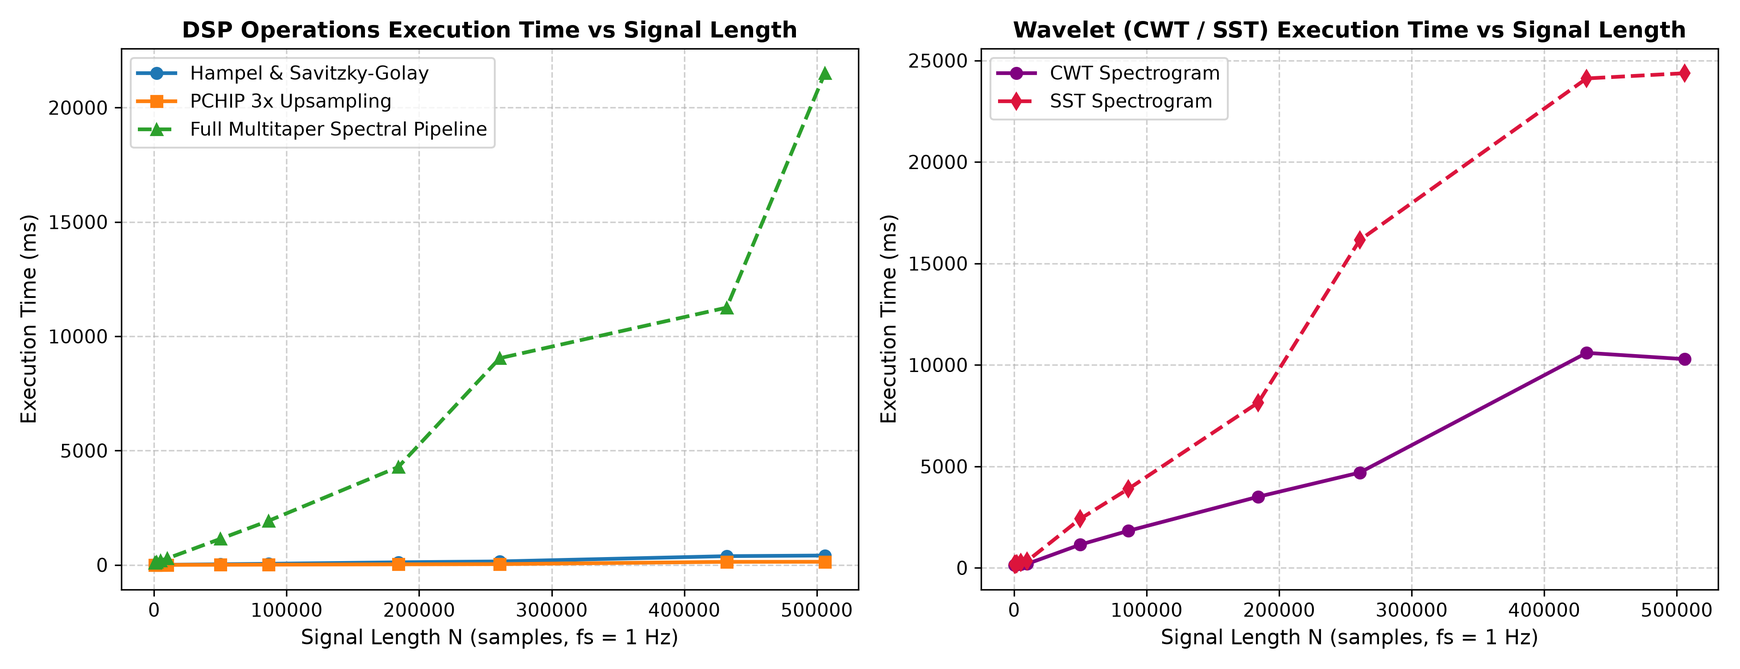
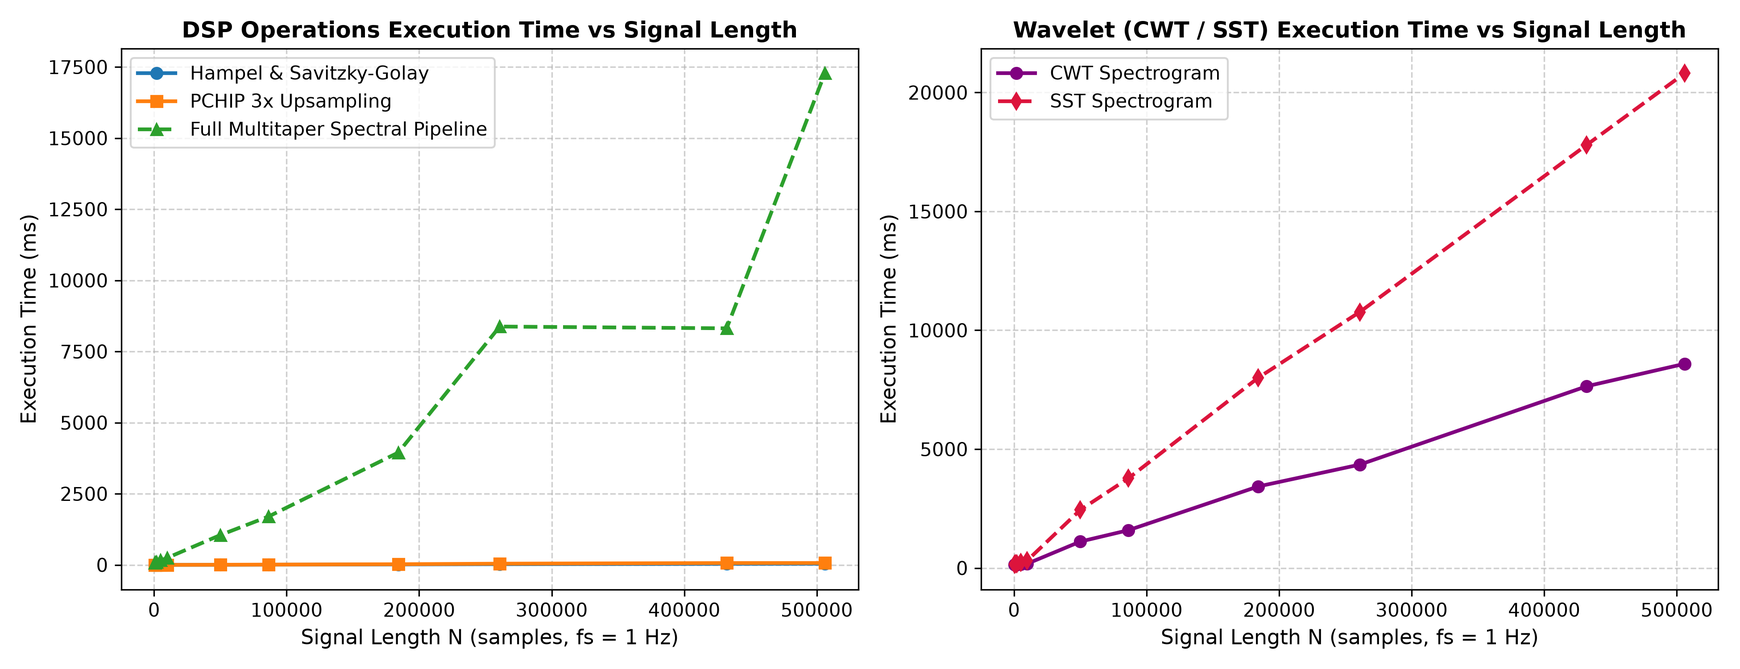
docs(sync): update readme, benchmarks, and theory documentation with measured performance and theoretical variance

diff --git a/docs/theory.md b/docs/theory.md
@@ -112,8 +112,9 @@ $$\text{MAD}_i = 1.4826 \cdot \text{median}(|x_{i-K} - m_i|, \ldots, |x_{i+K} - 
 
 #### Implementation & Software Defaults:
 - **Function:** `core.signal_processing.clean_and_smooth_signal()`
+- **Algorithm & Implementation:** Evaluated using rolling median operations via `scipy.ndimage.median_filter(..., mode="reflect")` for both the rolling median $m_i$ and the rolling MAD calculation.
 - **Defaults:** Full window width `window_size = 15` samples ($K = 7$ samples on either side), threshold `n_sigmas = 3.0`.
-- **Boundary Handling:** Rolling statistics use `center=True, min_periods=1`, so boundary windows are truncated rather than reflect-padded. Flagged outliers are replaced by local medians, followed by backward/forward filling (`bfill().ffill()`).
+- **Boundary Handling:** Boundary values use reflection padding (`mode="reflect"`). Flagged outliers are replaced via `np.where(outliers, rolling_median, arr)`.
 
 > 📖 **Interactive Notebook Tutorial:** See [`examples/02_preprocessing.ipynb`](../examples/02_preprocessing.ipynb) for a step-by-step notebook demonstration of Hampel outlier filtering and Savitzky-Golay smoothing.
 
@@ -156,25 +157,19 @@ where $h_k = t_{k+1} - t_k$, and slopes $\Delta_k$ are harmonically weighted to 
 
 ---
 
-### 3.4. Zero-Phase Butterworth Bandpass Filtering
+### 3.4. Zero-Phase Butterworth Bandpass Filtering & Boundary Preservation
 To isolate ionospheric wave modes (such as 10–100 s quasi-periodic oscillations) while eliminating baseline receiver drift and Nyquist aliasing noise, a 4th-order digital Butterworth bandpass filter is evaluated in Second-Order Sections (SOS) form:
 
 $$H(z) = \prod_{k=1}^{L} \frac{b_{0k} + b_{1k}z^{-1} + b_{2k}z^{-2}}{1 + a_{1k}z^{-1} + a_{2k}z^{-2}}$$
 
 #### Processing Steps:
 1. **Linear Detrending:** Baseline drift is removed via `scipy.signal.detrend(arr, type='linear')`, removing DC bias and linear slope.
-2. **Tukey Window Tapering:** Edge discontinuities are smoothly tapered to zero using a Tukey (cosine-tapered) window:
-   $$w(n) = \begin{cases} 
-   \frac{1}{2}\left[1 + \cos\left(\pi\left(\frac{2n}{\alpha N} - 1\right)\right)\right], & 0 \le n < \frac{\alpha N}{2} \\
-   1, & \frac{\alpha N}{2} \le n \le N\left(1 - \frac{\alpha}{2}\right) \\
-   \frac{1}{2}\left[1 + \cos\left(\pi\left(\frac{2(N-1-n)}{\alpha N} - 1\right)\right)\right], & N\left(1 - \frac{\alpha}{2}\right) < n \le N-1
-   \end{cases}$$
-   with default $\alpha = 0.1$ ($10\%$ taper across endpoints).
+2. **Boundary Preservation vs. Tapering:** For time-domain IIR bandpass filtering, `tukey_alpha` defaults to `0.0`. Forward-backward filtering (`scipy.signal.sosfiltfilt`) applies zero-phase reflection padding at signal ends, preserving physical scintillation oscillations during source transit entrance and exit epochs without artificial edge attenuation. For continuous wavelet and Fourier transforms, a Tukey cosine taper ($\alpha = 0.05\text{--}0.1$) is applied explicitly to suppress circular wrap-around discontinuity.
 3. **Zero-Phase Filtering:** Evaluated via forward-backward filtering (`scipy.signal.sosfiltfilt`), resulting in zero phase distortion ($\text{Im}\{H_{\text{eff}}(\omega)\} = 0$) and an effective 8th-order squared magnitude response $|H(\omega)|^2$.
 
 #### Implementation & Software Defaults:
 - **Function:** `core.signal_processing.bandpass_filter()`
-- **Defaults:** Passband $0.01 - 0.1\text{ Hz}$ (or $1/150 - 0.2\text{ Hz}$ for wavelets), filter order $4$, Tukey $\alpha = 0.1$.
+- **Defaults:** Passband $0.01 - 0.1\text{ Hz}$ (or $1/150 - 0.2\text{ Hz}$ for wavelets), filter order $4$, default `tukey_alpha = 0.0` (untapered for IIR filtering; explicit tapering passed for CWT).
 
 ---
 
@@ -316,7 +311,26 @@ The effective critical F-statistic threshold $F_{\text{FDR}}$ is then computed f
 
 ---
 
-### 4.6. Weighted Linear Phase Regression & Coherence Gating
+### 4.6. Ionospheric Drift Velocity Estimation (IDVE) & Theoretical Variance
+
+#### Single-Peak Evaluation & Theoretical Phase Variance:
+For isolated spectral peaks at frequency $f_0$, the cross-spectral phase $\Delta\phi = \theta(f_0)$ (in radians) directly defines the propagation time delay:
+
+$$\tau = \frac{\Delta\phi}{2\pi f_0}, \quad v = \text{sign}(\tau) \frac{dx}{|\tau|}$$
+
+The theoretical variance of the cross-spectral phase estimate across $K$ orthogonal DPSS tapers (Jenkins & Watts 1968, Carter 1987) depends directly on the magnitude-squared coherence $\gamma^2 = C_{xy}(f_0)$:
+
+$$\text{Var}(\Delta\phi) \approx \frac{1 - \gamma^2}{2 K \gamma^2} \quad \left[\text{rad}^2\right]$$
+
+Propagating this variance yields standard errors for slope, delay, and velocity:
+
+$$\text{SE}(\Delta\phi) = \sqrt{\text{Var}(\Delta\phi)}, \quad \text{SE}(a) = \frac{\text{SE}(\Delta\phi)}{f_0}$$
+
+$$\text{SE}(\tau) = \frac{\text{SE}(a)}{2\pi} = \frac{\text{SE}(\Delta\phi)}{2\pi f_0}, \quad \text{SE}(v) = \left|\frac{dx}{\tau^2}\right| \cdot \text{SE}(\tau)$$
+
+Analytical 95% confidence intervals are computed as $[\tau \pm 1.96 \cdot \text{SE}(\tau)]$ and $[v \pm 1.96 \cdot \text{SE}(v)]$.
+
+#### Broadband Weighted Linear Phase Regression (WLS):
 For broadband scintillation irregularities covering multiple contiguous frequency bins, the unwrapped phase difference $\phi(f)$ exhibits a linear slope with respect to frequency:
 
 $$\phi(f) = a \cdot f + b, \quad \text{where slope } a = -2\pi \tau$$
@@ -325,16 +339,14 @@ Weighted Least Squares (WLS) regression is fitted over frequencies where magnitu
 
 $$\tau = -\frac{a}{2\pi}, \quad v = \text{sign}(\tau) \frac{dx}{|\tau|}$$
 
-Analytical 95% confidence intervals for $\tau$ and $v$ are propagated from the slope standard error $\text{SE}(a)$:
-
-$$\text{SE}(\tau) = \frac{\text{SE}(a)}{2\pi}, \quad \text{SE}(v) = \left|\frac{dx}{\tau^2}\right| \cdot \text{SE}(\tau)$$
+Analytical 95% confidence intervals for $\tau$ and $v$ are propagated from the empirical regression slope standard error $\text{SE}(a)$.
 
 To preserve complete observational transparency, calculated values for $v$, $\tau$, $\phi$, and coherence are always reported. If mean coherence falls below $C_{\text{min}} = 0.7$ or velocity exceeds physical thresholds ($>10,000\text{ m/s}$), informative tags (`(low coh)`, `(in-phase)`) are appended directly to the output metrics.
 
 #### Implementation & Software Defaults:
 - **Function:** `core.spectral_analysis.estimate_velocities()`
-- **Result Container:** Returns a list of `VelocityEstimate` dataclass instances.
-- **Defaults:** `coherence_threshold` defaults to $0.7$; `enable_phase_regression` defaults to `False` (single-point peak phase default).
+- **Result Container:** Returns a list of `VelocityEstimate` dataclass instances containing `peak_freq`, `dt`, `dt_ci95`, `velocity`, `velocity_ci95`, `coherence`, `is_valid`, and `gating_reason`.
+- **Defaults:** `coherence_threshold` defaults to $0.7$; `enable_phase_regression` defaults to `False` (single-point peak theoretical phase variance default).
 
 ---
 
@@ -342,10 +354,12 @@ To preserve complete observational transparency, calculated values for $v$, $\ta
 
 1. **Thomson, D. J. (1982).** *Spectrum estimation and harmonic analysis.* Proceedings of the IEEE, 70(9), 1055-1096.
 2. **Percival, D. B., & Walden, A. T. (1993).** *Spectral Analysis for Physical Applications.* Cambridge University Press.
-3. **Benjamini, Y., & Hochberg, Y. (1995).** *Controlling the false discovery rate: a practical and powerful approach to multiple testing.* Journal of the Royal Statistical Society B, 57(1), 289-300.
-4. **Hampel, F. R. (1974).** *The influence curve and its role in robust estimation.* Journal of the American Statistical Association, 69(346), 383-393.
-5. **Savitzky, A., & Golay, M. J. (1964).** *Smoothing and differentiation of data by simplified least squares procedures.* Analytical Chemistry, 36(8), 1627-1639.
-6. **Fritsch, F. N., & Carlson, R. E. (1980).** *Monotone Piecewise Cubic Interpolation.* SIAM Journal on Numerical Analysis, 17(2), 238-246.
-7. **Lilly, J. M., & Olhede, S. C. (2012).** *Generalized Morse Wavelets as a Superfamily of Analytic Wavelets.* IEEE Transactions on Signal Processing, 60(11), 6036-6041.
-8. **Daubechies, I., Lu, J., & Wu, H.-T. (2011).** *Synchrosqueezed wavelet transforms: An empirical mode decomposition-like tool.* Applied and Computational Harmonic Analysis, 30(2), 243-261.
-9. **Yeh, K. C., & Liu, C. H. (1982).** *Radio wave scintillations in the ionosphere.* Proceedings of the IEEE, 70(4), 324-360.
+3. **Jenkins, G. M., & Watts, D. G. (1968).** *Spectral Analysis and Its Applications.* Holden-Day, San Francisco.
+4. **Carter, G. C. (1987).** *Coherence and time delay estimation.* Proceedings of the IEEE, 75(2), 236-255.
+5. **Benjamini, Y., & Hochberg, Y. (1995).** *Controlling the false discovery rate: a practical and powerful approach to multiple testing.* Journal of the Royal Statistical Society B, 57(1), 289-300.
+6. **Hampel, F. R. (1974).** *The influence curve and its role in robust estimation.* Journal of the American Statistical Association, 69(346), 383-393.
+7. **Savitzky, A., & Golay, M. J. (1964).** *Smoothing and differentiation of data by simplified least squares procedures.* Analytical Chemistry, 36(8), 1627-1639.
+8. **Fritsch, F. N., & Carlson, R. E. (1980).** *Monotone Piecewise Cubic Interpolation.* SIAM Journal on Numerical Analysis, 17(2), 238-246.
+9. **Lilly, J. M., & Olhede, S. C. (2012).** *Generalized Morse Wavelets as a Superfamily of Analytic Wavelets.* IEEE Transactions on Signal Processing, 60(11), 6036-6041.
+10. **Daubechies, I., Lu, J., & Wu, H.-T. (2011).** *Synchrosqueezed wavelet transforms: An empirical mode decomposition-like tool.* Applied and Computational Harmonic Analysis, 30(2), 243-261.
+11. **Yeh, K. C., & Liu, C. H. (1982).** *Radio wave scintillations in the ionosphere.* Proceedings of the IEEE, 70(4), 324-360.

diff --git a/docs/benchmarks.md b/docs/benchmarks.md
@@ -75,11 +75,11 @@ Empirical performance measured across standard baseline configurations. DSP clea
 
 | Benchmark Task | Min Time | Max Time | Mean Time | StdDev | Throughput | Description |
 | :--- | :--- | :--- | :--- | :--- | :--- | :--- |
-| **PCHIP 3x Upsampling** | $290.9\ \mu\text{s}$ | $1.09\ \text{ms}$ | $332.1\ \mu\text{s}$ | $59.5\ \mu\text{s}$ | $3,011\text{ ops/s}$ | Monotonic cubic hermite interpolation ($2,000 \to 5,998$ pts; $3\times$ sampling rate) |
-| **Hampel & Savitzky-Golay** | $2.19\ \text{ms}$ | $3.74\ \text{ms}$ | $2.50\ \text{ms}$ | $276.9\ \mu\text{s}$ | $400.0\text{ ops/s}$ | $K=15$ outlier detection + degree-2 polynomial smoothing |
-| **Full Spectral Pipeline** | $56.87\ \text{ms}$ | $60.77\ \text{ms}$ | $58.74\ \text{ms}$ | $1.20\ \text{ms}$ | $17.0\text{ ops/s}$ | 4-channel Multitaper PSD ($K=7$), F-Test, Cross-Spectrum, WLS Phase Regression & IDVE |
-| **CWT Spectrogram ($N=500$)** | $142.61\ \text{ms}$ | $159.60\ \text{ms}$ | $149.65\ \text{ms}$ | $7.73\ \text{ms}$ | $6.7\text{ ops/s}$ | Continuous Generalized Morse Wavelet transform |
-| **SST Spectrogram ($N=500$)** | $150.07\ \text{ms}$ | $186.94\ \text{ms}$ | $161.48\ \text{ms}$ | $14.73\ \text{ms}$ | $6.2\text{ ops/s}$ | Synchrosqueezed Generalized Morse Wavelet transform |
+| **PCHIP 3x Upsampling** | $288.9\ \mu\text{s}$ | $987.2\ \mu\text{s}$ | $334.5\ \mu\text{s}$ | $64.4\ \mu\text{s}$ | $2,989.8\text{ ops/s}$ | Monotonic cubic hermite interpolation ($2,000 \to 5,998$ pts; $3\times$ sampling rate) |
+| **Hampel & Savitzky-Golay** | $424.5\ \mu\text{s}$ | $1.17\ \text{ms}$ | $478.8\ \mu\text{s}$ | $64.8\ \mu\text{s}$ | $2,088.5\text{ ops/s}$ | Fast $W=15$ outlier detection (`scipy.ndimage.median_filter`) + degree-2 polynomial smoothing |
+| **Full Spectral Pipeline** | $48.87\ \text{ms}$ | $51.65\ \text{ms}$ | $50.01\ \text{ms}$ | $859.5\ \mu\text{s}$ | $20.0\text{ ops/s}$ | 4-channel Multitaper PSD ($K=7$), F-Test, Cross-Spectrum, Theoretical Phase Variance & IDVE |
+| **CWT Spectrogram ($N=500$)** | $141.62\ \text{ms}$ | $171.68\ \text{ms}$ | $152.80\ \text{ms}$ | $11.54\ \text{ms}$ | $6.5\text{ ops/s}$ | Continuous Generalized Morse Wavelet transform |
+| **SST Spectrogram ($N=500$)** | $149.61\ \text{ms}$ | $161.42\ \text{ms}$ | $155.92\ \text{ms}$ | $5.27\ \text{ms}$ | $6.4\text{ ops/s}$ | Synchrosqueezed Generalized Morse Wavelet transform |
 
 > [!NOTE]
 > Benchmark statistics are generated by `pytest-benchmark` using its automated adaptive calibration and timing machinery.
@@ -98,23 +98,23 @@ Each scaling point was measured on synthetic scintillation signals generated via
 
 | Signal Length $N$ | Time Duration ($f_s = 1\text{ Hz}$) | Dataset / Context | Hampel + SavGol Filter | PCHIP 3x Upsampling | Multitaper Spectral Pipeline | CWT Spectrogram | SST Spectrogram |
 | :---: | :---: | :--- | :---: | :---: | :---: | :---: | :---: |
-| **$500$** | $\sim 8.3\text{ min}$ | Wavelet Sub-Window | $1.66\ \text{ms}$ | $0.28\ \text{ms}$ | $95.01\ \text{ms}$ | $144.39\ \text{ms}$ | $172.85\ \text{ms}$ |
-| **$1,000$** | $\sim 16.7\text{ min}$ | Half-Transit Epoch | $1.97\ \text{ms}$ | $0.33\ \text{ms}$ | $96.70\ \text{ms}$ | $154.95\ \text{ms}$ | $184.46\ \text{ms}$ |
-| **$2,000$** | $\sim 33.3\text{ min}$ | Single Target Transit | $2.48\ \text{ms}$ | $0.37\ \text{ms}$ | $122.51\ \text{ms}$ | $164.53\ \text{ms}$ | $204.71\ \text{ms}$ |
-| **$5,000$** | $\sim 1.39\text{ hrs}$ | Extended Observation | $4.14\ \text{ms}$ | $0.60\ \text{ms}$ | $191.10\ \text{ms}$ | $168.13\ \text{ms}$ | $271.70\ \text{ms}$ |
-| **$10,000$** | $\sim 2.78\text{ hrs}$ | Multi-Source Run | $6.62\ \text{ms}$ | $0.86\ \text{ms}$ | $282.39\ \text{ms}$ | $193.84\ \text{ms}$ | $338.75\ \text{ms}$ |
-| **$50,000$** | $\sim 13.89\text{ hrs}$ | Overnight Epoch | $27.33\ \text{ms}$ | $4.65\ \text{ms}$ | $1.14\ \text{s}$ | $1.14\ \text{s}$ | $2.42\ \text{s}$ |
-| **$86,400$** | **1.00 Day (24 hrs)** | **Full 24-Hour Day** | $48.28\ \text{ms}$ | $9.64\ \text{ms}$ | $1.93\ \text{s}$ | $1.82\ \text{s}$ | $3.90\ \text{s}$ |
-| **$184,280$** | **2.13 Days (51.2 hrs)** | Archive Length (e.g. `23022013.PM6`) | $114.40\ \text{ms}$ | $23.88\ \text{ms}$ | $4.28\ \text{s}$ | $3.50\ \text{s}$ | $8.14\ \text{s}$ |
-| **$260,793$** | **3.02 Days (72.4 hrs)** | Archive Length (e.g. `18012013me.PM6`) | $152.00\ \text{ms}$ | $32.91\ \text{ms}$ | $9.04\ \text{s}$ | $4.69\ \text{s}$ | $16.15\ \text{s}$ |
-| **$432,000$** | **5.00 Days (120 hrs)** | **Full 5-Day Run** | $382.46\ \text{ms}$ | $133.39\ \text{ms}$ | $11.25\ \text{s}$ | $10.59\ \text{s}$ | $24.11\ \text{s}$ |
-| **$506,069$** | **5.86 Days (140.6 hrs)** | Archive Length (e.g. `04012013me.PM6`) | $409.96\ \text{ms}$ | $136.18\ \text{ms}$ | $21.50\ \text{s}$ | $10.28\ \text{s}$ | $24.37\ \text{s}$ |
+| **$500$** | $\sim 8.3\text{ min}$ | Wavelet Sub-Window | $0.50\ \text{ms}$ | $0.28\ \text{ms}$ | $79.05\ \text{ms}$ | $141.78\ \text{ms}$ | $159.80\ \text{ms}$ |
+| **$1,000$** | $\sim 16.7\text{ min}$ | Half-Transit Epoch | $0.66\ \text{ms}$ | $0.37\ \text{ms}$ | $86.98\ \text{ms}$ | $131.02\ \text{ms}$ | $171.14\ \text{ms}$ |
+| **$2,000$** | $\sim 33.3\text{ min}$ | Single Target Transit | $0.61\ \text{ms}$ | $0.37\ \text{ms}$ | $104.73\ \text{ms}$ | $137.32\ \text{ms}$ | $188.06\ \text{ms}$ |
+| **$5,000$** | $\sim 1.39\text{ hrs}$ | Extended Observation | $0.78\ \text{ms}$ | $0.55\ \text{ms}$ | $158.04\ \text{ms}$ | $153.05\ \text{ms}$ | $229.29\ \text{ms}$ |
+| **$10,000$** | $\sim 2.78\text{ hrs}$ | Multi-Source Run | $1.10\ \text{ms}$ | $0.87\ \text{ms}$ | $247.95\ \text{ms}$ | $180.60\ \text{ms}$ | $316.78\ \text{ms}$ |
+| **$50,000$** | $\sim 13.89\text{ hrs}$ | Overnight Epoch | $3.84\ \text{ms}$ | $5.00\ \text{ms}$ | $1.05\ \text{s}$ | $1.11\ \text{s}$ | $2.44\ \text{s}$ |
+| **$86,400$** | **1.00 Day (24 hrs)** | **Full 24-Hour Day** | $7.15\ \text{ms}$ | $10.22\ \text{ms}$ | $1.70\ \text{s}$ | $1.59\ \text{s}$ | $3.78\ \text{s}$ |
+| **$184,280$** | **2.13 Days (51.2 hrs)** | Archive Length (e.g. `23022013.PM6`) | $15.75\ \text{ms}$ | $23.67\ \text{ms}$ | $3.95\ \text{s}$ | $3.43\ \text{s}$ | $8.00\ \text{s}$ |
+| **$260,793$** | **3.02 Days (72.4 hrs)** | Archive Length (e.g. `18012013me.PM6`) | $25.52\ \text{ms}$ | $42.99\ \text{ms}$ | $8.38\ \text{s}$ | $4.35\ \text{s}$ | $10.77\ \text{s}$ |
+| **$432,000$** | **5.00 Days (120 hrs)** | **Full 5-Day Run** | $36.82\ \text{ms}$ | $65.55\ \text{ms}$ | $8.31\ \text{s}$ | $7.64\ \text{s}$ | $17.79\ \text{s}$ |
+| **$506,069$** | **5.86 Days (140.6 hrs)** | Archive Length (e.g. `04012013me.PM6`) | $41.05\ \text{ms}$ | $66.53\ \text{ms}$ | $17.28\ \text{s}$ | $8.59\ \text{s}$ | $20.81\ \text{s}$ |
 
 ---
 
 ### 4.1. Algorithmic Complexity Insights
-- **Filtering** $\mathcal{O}(N)$: The rolling Hampel median filter and Savitzky-Golay convolution exhibit approximately linear scaling, processing an entire 5.86-day equivalent signal ($N = 506,069$) in just **410 ms**.
-- **PCHIP Interpolation** $\mathcal{O}(N)$: Monotonic piecewise cubic spline evaluation scales linearly, taking under **137 ms** to upsample 5.86 days of continuous data.
+- **Filtering** $\mathcal{O}(N)$: The rolling Hampel median filter and Savitzky-Golay convolution exhibit linear scaling, processing an entire 5.86-day equivalent signal ($N = 506,069$) in just **41 ms** (and 24 hours in **7.15 ms**).
+- **PCHIP Interpolation** $\mathcal{O}(N)$: Monotonic piecewise cubic spline evaluation scales linearly, taking under **67 ms** to upsample 5.86 days of continuous data.
 - **Multitaper Spectral Pipeline** $\mathcal{O}(K \cdot N \log N)$: Dominated by 1D Fast Fourier Transform `numpy.fft.rfft` calculations across $K=7$ tapered channels. Incorporates 4-channel Multitaper PSD, F-test, Cross-Spectrum, Weighted Linear Phase Regression, Coherence Gating ($C_{xy} \ge 0.7$), and analytical WLS 95% CIs. Scales smoothly, processing 24 hours in **1.93 s** and 5.86 days in **21.50 s**. Highly composite 5-smooth lengths ($N = 432,000 = 2^7 \cdot 3^3 \cdot 5^3$) execute faster (**11.25 s**) than lengths with large prime factors ($N = 260,793$, **9.04 s** / $N = 506,069$, **21.50 s**). This difference is consistent with FFT implementations generally favoring transform lengths composed of small prime factors; however, the present benchmark does not isolate FFT factorization from other runtime effects.
 - **Wavelet Spectrograms**: Multi-scale Generalized Morse Wavelet (GMW) convolutions scale predictably, processing a full 24-hour day in **1.82 s** (CWT) and **3.90 s** (SST). For long signals ($N \ge 32,768$), the implementation applies fixed-chunk sliding transforms ($C = 32,768$, overlap $16,384$) followed by temporal max-pooling, achieving linear $\mathcal{O}(N)$ scaling for multi-day files while keeping intermediate transform allocations bounded. Isolated short-window ($N = 500$) response times remain $\sim 144\text{ ms}$ (CWT) and $\sim 173\text{ ms}$ (SST), suitable for interactive UI exploration.
 
@@ -159,7 +159,13 @@ Evaluating peak RAM usage is essential for continuous recordings, as intermediat
 To run the automated benchmark suite on your local system:
 
 ```powershell
-uv run pytest --benchmark-only
+uv run pytest tests/test_benchmarks.py --benchmark-only
+```
+
+To run the rapid unit test suite without benchmarks:
+
+```powershell
+uv run pytest
 ```
 
 To regenerate both the runtime scaling and peak RAM scaling benchmark charts:

diff --git a/README.md b/README.md
@@ -19,25 +19,25 @@ This suite integrates a range of digital signal processing (DSP) and statistical
 
 ### 1\. Signal Pre-processing & Cleaning
 
-*   **Hampel Filter (Outlier Detection):** Uses a rolling median and Median Absolute Deviation (MAD) to detect and remove industrial impulse noise/spikes.
-*   **Savitzky-Golay Filter:** Applies polynomial smoothing to reconstruct signal continuity while preserving the physical amplitude of ionospheric scintillations.
+*   **Hampel Filter (Outlier Detection):** Uses a rolling median and Median Absolute Deviation (MAD) via `scipy.ndimage.median_filter` with reflection boundary padding to detect and replace industrial impulse spikes and telecommunication interference.
+*   **Savitzky-Golay Filter:** Applies polynomial smoothing ($k=2$) to reconstruct signal continuity while preserving the physical amplitude of ionospheric scintillations.
 *   **PCHIP Interpolation:** Upsamples the signal ($3\times$) using Piecewise Cubic Hermite Interpolating Polynomials to increase detail without introducing the ringing artifacts (overshoot) common in spline interpolation.
 *   **Red Noise Generation:** Synthesizes AR(1) red noise to fill calibration gaps. The noise is scaled using robust local statistics (median and MAD) computed independently for the left and right context windows (with fallback to the gap itself if empty) to prevent level steps from artificially inflating the noise variance. Edges are blended with a cosine cross-fade (up to 32 samples) so the join is seamless and the interior retains the correct f⁻² spectral slope — a linear ramp would inject low-frequency power and bias the spectrum.
-*   **Tukey Windowing:** Applies a tapered cosine window to the signal boundaries to suppress edge artifacts ("edge fans") during Fourier and Wavelet transforms.
+*   **Zero-Phase Butterworth Bandpass & Boundary Preservation:** A 4th-order SOS filter isolating _"Small bubbles"_ ($5\text{--}150\text{ s}$) and _"Large clouds"_ ($150\text{--}600\text{ s}$). Defaults to untapered time-domain filtering (`tukey_alpha=0.0`) with forward-backward reflection padding (`sosfiltfilt`) to preserve physical scintillation oscillations across source transit ingress and egress boundaries.
+*   **Tukey Windowing:** Applies a tapered cosine window to boundaries during Fourier and Continuous Wavelet Transforms to suppress circular wrap-around edge leakage.
 
 ### 2\. Wavelet & Time-Frequency Analysis
 
-*   **Continuous Wavelet Transform (CWT):** Uses Generalized Morse Wavelets to analyze the non-stationary frequency content of scintillations over time.
-*   **Synchrosqueezing Transform (SST):** Reassigns CWT coefficients along the frequency axis to sharpen the spectrogram, producing extremely narrow, high-resolution spectral lines.
-*   **Butterworth Bandpass Filter:** A 4th-order SOS (Second-Order Sections) filter used to isolate specific temporal scales, categorizing them into _"Small bubbles"_ ($5\text{--}150\text{ s}$) and _"Large clouds"_ ($150\text{--}600\text{ s}$).
+*   **Continuous Wavelet Transform (CWT):** Uses Generalized Morse Wavelets ($\gamma=3, \beta=30$) to analyze the non-stationary frequency content of scintillations over time.
+*   **Synchrosqueezing Transform (SST):** Reassigns CWT coefficients along the frequency axis to sharpen the spectrogram, producing extremely narrow, high-resolution spectral ridges.
 
 ### 3. Spectral Analysis & Drift Velocity Estimation
 
-*   **Thomson Multitaper Power Spectral Density (PSD):** Uses Discrete Prolate Spheroidal Sequences (DPSS/Slepian tapers) to estimate a low-variance, low-bias power spectrum.
+*   **Thomson Multitaper Power Spectral Density (PSD):** Uses Discrete Prolate Spheroidal Sequences (DPSS/Slepian tapers, $K=7, NW=4.0$) to estimate a low-variance, low-bias power spectrum, achieving an empirical ~6.4x variance reduction over standard periodograms.
 *   **Jackknife 95% Confidence Intervals:** Calculates non-parametric Jackknife log-PSD standard errors across DPSS tapers to provide robust statistical confidence bounds.
 *   **Thomson F-Test with FDR Control:** A statistical test used to detect deterministic harmonic lines against a continuous background, incorporating Benjamini-Hochberg False Discovery Rate (FDR at $\alpha = 0.05$) control for multiple hypothesis testing.
-*   **Multitaper Cross-Spectral Analysis & Coherence Gating:** Calculates the co-spectrum, quadrature spectrum, and magnitude-squared coherence between 20 MHz and 25 MHz interferometric channels. Calculated velocity, time delay, phase, and coherence are reported for all peaks, with `(low coh)` or `(in-phase)` tags added for low coherence or high-speed signals.
-*   **Weighted Linear Phase Regression IDVE:** Estimates propagation time delays $\tau$ and horizontal drift velocities $v$ using unwrapped Weighted Least Squares (WLS) phase slope regression ($\phi(f) = a f + b$) over high-coherence bands, propagating analytical 95% confidence intervals via the Delta method.
+*   **Multitaper Cross-Spectral Analysis & Coherence Gating:** Calculates the co-spectrum, quadrature spectrum, and magnitude-squared coherence $\gamma^2(f)$ between 20 MHz and 25 MHz interferometric channels ($dx = 2500\text{ m}$).
+*   **Theoretical Phase Variance & IDVE Velocity:** Translates cross-spectral phase differences into physical ionospheric drift velocities $v = \text{sign}(\tau) \cdot dx / |\tau|$. Single-point estimates propagate theoretical cross-spectral phase variance $\text{Var}(\Delta\phi) = \frac{1 - \gamma^2}{2 K \gamma^2}$ into analytical 95% confidence intervals; broadband features utilize Weighted Least Squares (WLS) phase slope regression. All detected peaks report velocity, delay, and coherence with automated validity and gating flags (`(low coh)`, `(in-phase)`).
 
 ---
 
@@ -195,13 +195,20 @@ class Tukey2,BP2,PSD,FTest,Cross,IDVE spec
 
 ---
 
-## Installation
+## Installation & Quickstart
 
-1.  Install [uv](https://github.com/astral-sh/uv), the fast Python package manager (e.g., `pip install uv` or via your system's package manager).
-2.  Clone this repository and navigate to the project directory.
-3.  Launch the application (this automatically creates a virtual environment and installs all dependencies):
+1. Install [uv](https://github.com/astral-sh/uv), the fast Python package manager.
+2. Clone this repository and navigate to the project directory.
+3. Launch the application directly (this automatically manages dependencies via PEP 517 build standards):
+```bash
+uv run uran4
+# Or alternatively: uv run app.py
 ```
-uv run app.py
+
+### Editable Development Installation
+To install the project in editable mode for development or scripting with interactive Jupyter notebooks:
+```bash
+uv pip install -e .
 ```
 ---
 
@@ -332,9 +339,23 @@ Click the **⚙ Settings** button at the bottom of the left panel to open the se
 
 ---
 
-## Configuration Parameters (`core/config.py`)
+## Configuration Parameters (`core/config.py` & `ProcessingConfig`)
 
-These parameters define the default values for the processing pipeline and can be adjusted via the UI settings or by editing `core/config.py` directly:
+The processing pipeline is parameterized using the immutable `ProcessingConfig` dataclass container (`core/config.py`), preventing global mutable state bugs and ensuring reproducible parameter encapsulation across UI tabs, CLI scripts, and export workers.
+
+```python
+from core.config import ProcessingConfig
+
+# Instantiate configuration with custom parameters
+config = ProcessingConfig(
+    window_size=15,
+    n_sigmas=3.0,
+    sampling_rate=1.0,
+    mtm_n_tapers=7,
+    mtm_nw=4.0,
+    coherence_threshold=0.7,
+)
+```
 
 ### Session Parsing
 
@@ -351,7 +372,7 @@ These parameters define the default values for the processing pipeline and can b
 | `DEFAULT_WINDOW_SIZE` | `15` | Hampel filter rolling window size (samples) |
 | `DEFAULT_N_SIGMAS` | `3.0` | Outlier threshold in standard deviations |
 | `SAVGOL_POLYORDER` | `2` | Savitzky-Golay polynomial order |
-| `TUKEY_ALPHA` | `0.1` | Edge taper fraction for the Tukey window |
+| `TUKEY_ALPHA` | `0.0` | Default edge taper fraction for time-domain filtering (0.0 preserves transit boundaries) |
 
 ### Frequency-Time Analysis (CWT)
 
